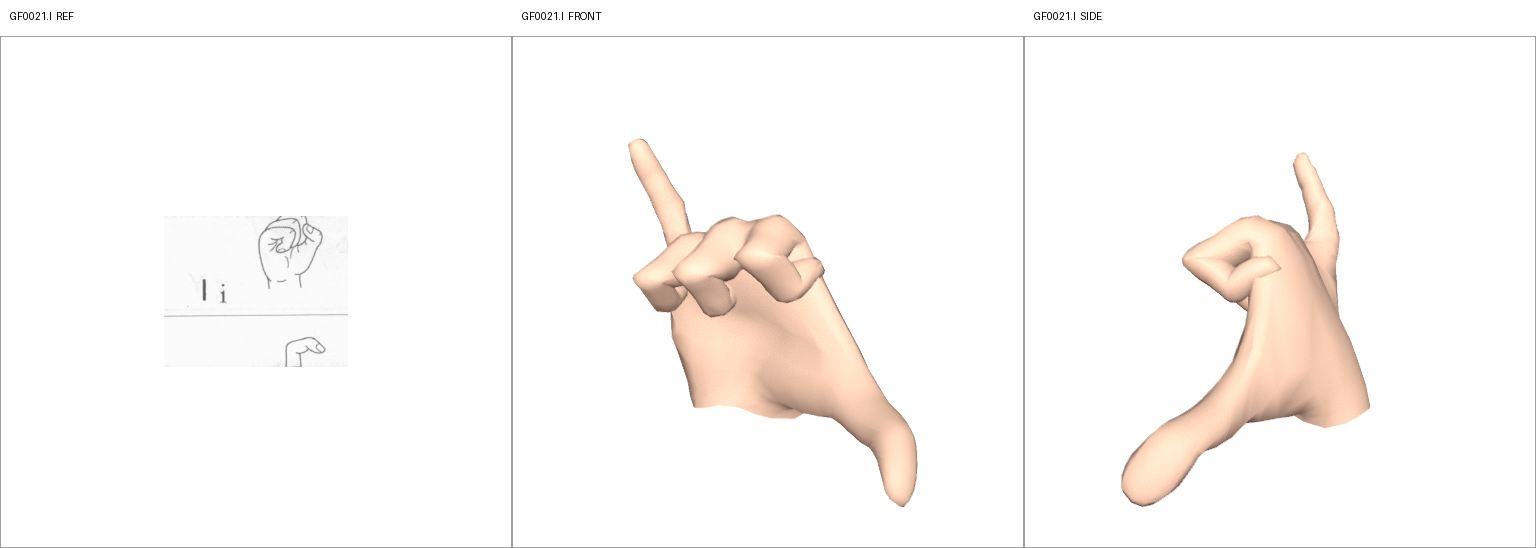
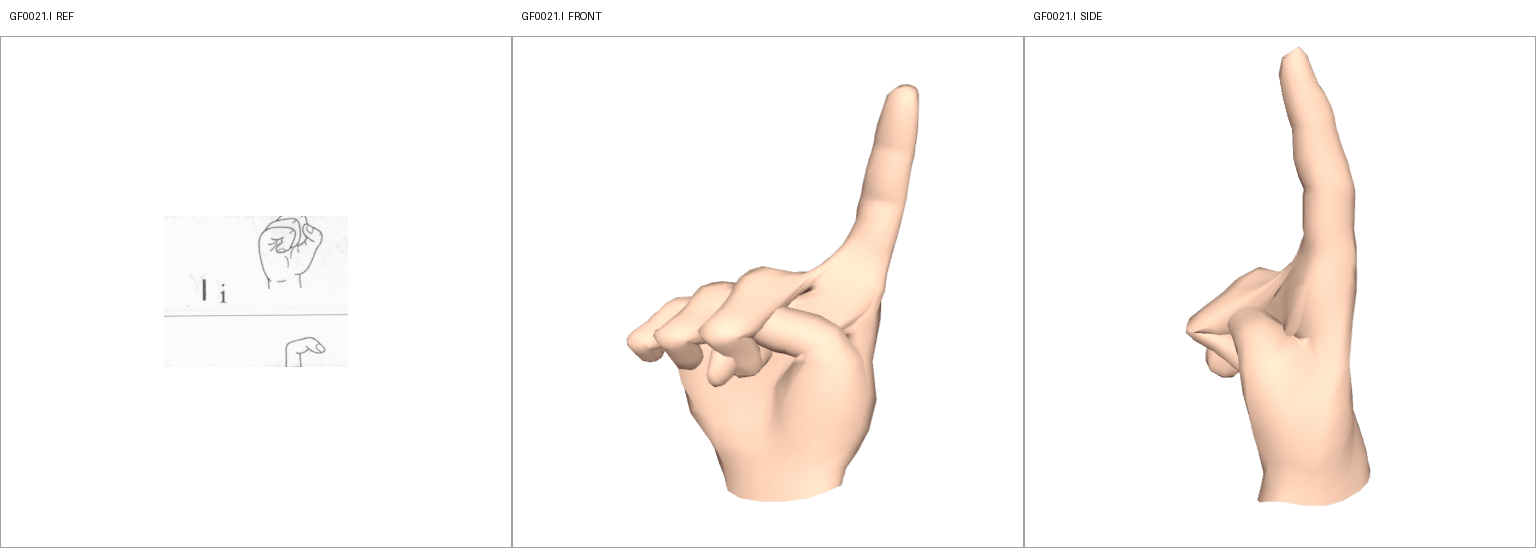
blender: 32 字母新姿态表定稿（J 勾手/NG 小指横伸/Y 拇指斜上/拇指 tuck 对齐判定器），正侧渲染与 REF 三联图全量重出

Changed region(s): [[0.4062, 0.1551, 0.625, 0.9307], [0.7188, 0.0931, 0.9062, 0.9307]]

diff --git a/blender/build_godot_hand_poc.py b/blender/build_godot_hand_poc.py
@@ -5,7 +5,7 @@ Output: blender/vendor/godot-xr-hands/poc/*.png + bones.json
 
 Usage:
   blender -b --python build_godot_hand_poc.py -- inspect   # dump bones + 6 orientation views
-  blender -b --python build_godot_hand_poc.py -- letters   # render A/B posed, palm to camera
+  blender -b --python build_godot_hand_poc.py -- letters   # 渲染全部 32 字母正/侧面（姿态表 2026-10-01 按官方原文全量重排）
 """
 
 import bpy
@@ -181,44 +181,128 @@ def cmd_inspect(arm, mesh):
 
 FIST = (30, 95, 100, 60)   # 弯曲抵掌心
 EXT = (5, 0, 0, 0)         # 伸直（rest 微曲）
+BENT90 = (10, 90, 5, 5)    # 并拢微曲与手掌成 90 度角（S/SH 类：近节折 90，关节保持直）
+HOOK = (5, 10, 90, 20)     # J：PIP 折 90°，中节指背向上，远节随弯
+PINCH = (10, 60, 70, 45)   # 拇食指搭圈时的食指（E/F/P）
+TOUCH = (10, 75, 70, 45)   # 指尖相抵类（T 的中/无名指）
+C_CURVE = (20, 55, 55, 35) # C：五指弯曲成 C
 
+# 2026-10-01 全量重排：按 letters.json 官方原文转写逐字母摆姿。
+# 四指键：Index/Middle/Ring/Little → (掌骨, 近节, 中节, 远节) 屈曲角。
 LETTERS = {
-    # 原文页2：伸拇指指尖朝上，四指弯曲抵掌心，手背向右（2019 呈现角度调整名单）
-    "A": {f: FIST for f in FINGERS},
-    # 原文页2：四指并拢直立，拇指向掌心弯曲贴掌，掌心向前偏左
-    "B": {f: EXT for f in FINGERS},
-    # 【冲突记录用草稿】OCR 与仓库规则未裁定；按仓库规则：食中二指伸直并拢
-    "U": {"Index": EXT, "Middle": EXT, "Ring": FIST, "Little": FIST},
-    # 原文页5：食中指直立分开成 V，拇无名小弯曲，拇指搭无名指远节
-    "V": {"Index": EXT, "Middle": EXT, "Ring": FIST, "Little": FIST},
-    # 原文页5：食中无名直立分开成 W，拇小指弯曲，拇指搭小指远节
-    "W": {"Index": EXT, "Middle": EXT, "Ring": EXT, "Little": FIST},
-    # 原文页3：拇食指张开、食指朝上，中无名小弯曲抵掌心；原文无「直角」，张开角待人工对图
+    "A": {f: FIST for f in FINGERS},                                  # 握拳伸拇指
+    "B": {f: EXT for f in FINGERS},                                   # 四指并拢直立
+    "C": {f: C_CURVE for f in FINGERS},                               # 五指弯曲成 C
+    "D": {f: FIST for f in FINGERS},                                  # 握拳，拇指搭中指中节
+    "E": {"Index": PINCH, "Middle": EXT, "Ring": EXT, "Little": EXT}, # 拇食指搭圈，三指横伸
+    "F": {"Index": PINCH, "Middle": EXT, "Ring": FIST, "Little": FIST},
+    "G": {"Index": EXT, "Middle": FIST, "Ring": FIST, "Little": FIST},
+    "H": {"Index": EXT, "Middle": EXT, "Ring": FIST, "Little": FIST},
+    "I": {"Index": EXT, "Middle": FIST, "Ring": FIST, "Little": FIST},# 食指直立（按原文文字）
+    "J": {"Index": HOOK, "Middle": FIST, "Ring": FIST, "Little": FIST},
+    "K": {"Index": EXT, "Middle": EXT, "Ring": FIST, "Little": FIST}, # 食指直立、中指横伸（见 SPLAY）
     "L": {"Index": EXT, "Middle": FIST, "Ring": FIST, "Little": FIST},
-    # 原文页5：伸拇、小指，食中无名弯曲
-    "Y": {"Little": EXT, "Index": FIST, "Middle": FIST, "Ring": FIST},
-    # 【待人工对图】OCR「食指直立」与仓库「小指伸直」冲突；按仓库规则渲染
-    "I": {"Little": EXT, "Index": FIST, "Middle": FIST, "Ring": FIST},
+    "M": {f: FIST for f in FINGERS},
+    "N": {f: FIST for f in FINGERS},
+    "O": {f: C_CURVE for f in FINGERS},                               # 拇食中指尖相抵成 O
+    "P": {"Index": PINCH, "Middle": EXT, "Ring": EXT, "Little": EXT}, # 同 E 手型，指尖朝下
+    "Q": {"Index": TOUCH, "Middle": TOUCH, "Ring": FIST, "Little": FIST}, # 拇食中指尖相捏
+    "R": {"Index": EXT, "Middle": FIST, "Ring": FIST, "Little": FIST},# 食指朝左、拇指朝上
+    "S": {f: BENT90 for f in FINGERS},                                # 四指并拢微曲 90 度
+    "T": {"Index": EXT, "Middle": TOUCH, "Ring": TOUCH, "Little": EXT},
+    "U": {f: EXT for f in FINGERS},                                   # 四指并拢直立（2026-10-01 四指裁定）
+    "V": {"Index": EXT, "Middle": EXT, "Ring": FIST, "Little": FIST},
+    "W": {"Index": EXT, "Middle": EXT, "Ring": EXT, "Little": FIST},
+    "X": {"Index": EXT, "Middle": EXT, "Ring": FIST, "Little": FIST}, # 食中直立交叉（见 SPLAY）
+    "Y": {"Index": FIST, "Middle": FIST, "Ring": FIST, "Little": EXT},
+    "Z": {"Index": EXT, "Middle": FIST, "Ring": FIST, "Little": EXT}, # 食小指横伸
+    "ZH": {"Index": EXT, "Middle": EXT, "Ring": FIST, "Little": EXT}, # 食中小指横伸，食中并拢
+    "CH": {f: EXT for f in FINGERS},                                  # 四指并拢横伸成扁コ
+    "SH": {"Index": BENT90, "Middle": BENT90, "Ring": FIST, "Little": FIST},
+    "NG": {"Index": FIST, "Middle": FIST, "Ring": FIST, "Little": EXT}, # 小指横伸
+    "EH": {"Index": PINCH, "Middle": EXT, "Ring": EXT, "Little": EXT},  # 用 E 的指式
+    "UE": {f: EXT for f in FINGERS},                                  # 用 U 的指式
 }
+
 # 绕掌法线（+X）的开合角：正角 = 向拇指侧（+Z）
-SPLAY = {"A": {}, "B": {"Index": -4, "Middle": -1.5, "Ring": 1.5, "Little": 4},
-         "U": {"Index": -6, "Middle": 5},
-         "V": {"Index": 12, "Middle": -12},
-         "W": {"Index": 18, "Ring": -18},
-         "L": {"Index": -2}, "Y": {"Little": -10}, "I": {"Little": -6}}
+TOGETHER4 = {"Index": -6, "Middle": -1.5, "Ring": 1.5, "Little": 6}
+SPLAY = {
+    "A": {}, "B": TOGETHER4, "C": {}, "D": {},
+    "E": {"Middle": -2, "Ring": 2, "Little": 8},       # 三指稍分开
+    "F": {"Index": -2, "Middle": 4},                   # 食中稍分开
+    "G": {"Index": 4},
+    "H": {"Index": -6, "Middle": 6},                   # 食中并拢
+    "I": {"Index": 4},
+    "J": {"Index": 3},
+    "K": {"Index": -6, "Middle": 75},                  # 中指横伸（向拇指侧）
+    "L": {"Index": -2},
+    "M": {"Index": -4, "Middle": -1, "Ring": 2, "Little": 4},
+    "N": {"Index": -3, "Middle": 2},
+    "O": {},
+    "P": {"Middle": -2, "Ring": 2, "Little": 8},
+    "Q": {"Index": -3, "Middle": 3, "Little": -10},
+    "R": {"Index": 4},
+    "S": TOGETHER4,
+    "T": {"Index": 10, "Little": -12},                 # 食、小指直立分开
+    "U": TOGETHER4,
+    "V": {"Index": 12, "Middle": -12},
+    "W": {"Index": 18, "Ring": -18},
+    "X": {"Index": -7, "Middle": 7},                   # 交叉：中指搭在食指上
+    "Y": {"Little": -12},
+    "Z": {"Index": 6, "Little": -8},
+    "ZH": {"Index": -2, "Middle": 2, "Little": -9},    # 食中并拢，小指离开
+    "CH": TOGETHER4,
+    "SH": {"Index": -3, "Middle": 3},
+    "NG": {"Little": 14},
+    "EH": {"Middle": -2, "Ring": 2, "Little": 8},
+    "UE": {"Index": -6, "Middle": -1.5, "Ring": 1.5, "Little": 12},  # ü：小指稍离开
+}
+
 # 拇指 = (摆角@掌法线, meta屈曲@finger_up, prox折叠@掌法线, dist折叠@掌法线)
 # 判定器 thumb 卷曲 = 二维 IP 内角（lm2/3/4，阈值 ≤100°），折叠必须发生在掌面（≈成像面）内
-THUMB = {"A": (-80, -10, 0, 0),       # 竖起，指尖朝上
-         "B": (55, -20, 35, 45),      # 横折过掌面 + 末端回钩
-         "U": (50, -20, 35, 45),
-         "V": (45, -20, 30, 40),      # 搭无名指远节
-         "W": (55, -20, 30, 40),      # 搭小指远节
-         "L": (-75, 0, 0, 0),         # 张开（二维投影需接近直角）
-         "Y": (-55, 0, 0, 0),         # 伸出
-         "I": (50, -20, 35, 45)}
-# 呈现角度：A 手背向右（背面视角）；其余掌心向前偏左（掌心视角 + 绕竖轴偏转）
-VIEW = {"A": "back"}
+TUCK_MID = (-28, -8, -72, -100)  # 搭中指中节指上
+TUCK_RING = (-30, -8, -70, -95)  # 搭无名指远节指上
+TUCK_PALM = (-36, 0, -50, -95)   # 贴近手掌
+TUCK_PINKY = (-35, -8, -65, -95) # 搭小指远节指上（W）
+THUMB = {
+    "A": (-80, -10, 0, 0),     # 竖起，指尖朝上
+    "B": TUCK_PALM,
+    "C": (-15, -8, -45, -40),    # 向上弯曲成 C 的一边
+    "D": TUCK_MID,               # 握拳搭中指中节
+    "E": (-20, -10, -45, -50),   # 与食指搭圈
+    "F": TUCK_RING, "G": TUCK_MID, "H": TUCK_RING,
+    "I": TUCK_MID, "J": TUCK_MID, "K": TUCK_MID,
+    "L": (-75, 0, 0, 0),       # 张开（二维投影需接近直角）
+    "M": (-42, -8, -70, -58), "N": (-42, -8, -70, -58),
+    "O": (-15, -8, -50, -45),    # 向上弯曲参与 O 形
+    "P": (-20, -10, -45, -50),   # 与食指搭圈
+    "Q": (-35, -12, -45, -45),   # 在下与食中指尖相捏
+    "R": (-80, -10, 0, 0),       # 拇指指尖朝上（同 A 的竖拇指）
+    "S": TUCK_PALM, "T": (-40, -8, -65, -55),  # T：与中无名指尖相抵
+    "U": TUCK_PALM,
+    "V": TUCK_RING, "W": TUCK_PINKY, "X": TUCK_RING,
+    "Y": (-5, 0, 0, 0),        # 伸出（向外侧展开、斜向上）
+    "Z": (-40, -8, -45, -45), "ZH": TUCK_RING, "CH": (-30, -8, -20, -20),
+    "SH": TUCK_PALM, "NG": (-40, -8, -45, -45),
+    "EH": (-20, -10, -45, -50), "UE": TUCK_PALM,
+}
+
+# 呈现角度：view ∈ {palm（掌心向前偏左）, back（手背向观者）}；roll = 相机绕视线旋转角（度）。
+# 横伸字母（指尖朝左）用 back + roll；P 指尖朝下用 palm + roll 180。
+ORIENT = {
+    "A": ("back", 0),
+    "E": ("back", 270), "F": ("back", 270), "G": ("back", 270),
+    "P": ("palm", 180),
+    "R": ("back", 270),
+    "Z": ("back", 270), "ZH": ("back", 270), "CH": ("back", 270), "NG": ("back", 270),
+    "EH": ("back", 270),
+}
 PALM_YAW_DEG = 20.0
+
+
+def orient_of(letter):
+    view, roll = ORIENT.get(letter, ("palm", 0))
+    return view, roll
 
 
 def apply_pose(arm, letter, palm_normal, finger_up, axis):
@@ -239,10 +323,19 @@ def apply_pose(arm, letter, palm_normal, finger_up, axis):
 
 
 def front_view_dir(letter, palm_normal, finger_up):
-    if VIEW.get(letter) == "back":
+    view, _roll = orient_of(letter)
+    if view == "back":
         return palm_normal.copy()   # 手背向观者
     yaw = Matrix.Rotation(math.radians(PALM_YAW_DEG), 3, finger_up)
     return (yaw @ -palm_normal).normalized()   # 掌心向前偏左
+
+
+def view_up(letter, view_dir, finger_up):
+    """相机上方向：默认手指朝上；roll 使横伸字母的指尖在画面里朝左/朝下。"""
+    _view, roll = orient_of(letter)
+    if not roll:
+        return finger_up.copy()
+    return (Matrix.Rotation(math.radians(roll), 3, view_dir) @ finger_up).normalized()
 
 
 def reset_pose(arm):
@@ -265,10 +358,12 @@ def cmd_letters(arm, mesh):
         c = (lo + hi) / 2
         dist = (hi - lo).length * 1.35
         across = palm_normal.cross(finger_up).normalized()
-        views = [(f"GF0021.{letter}_front.png", front_view_dir(letter, palm_normal, finger_up)),
-                 (f"GF0021.{letter}_side.png", across)]   # 侧面验证视角，防支点类回归
-        for fname, direction in views:
-            add_camera(c + direction * dist, c, finger_up)
+        front_dir = front_view_dir(letter, palm_normal, finger_up)
+        front_up = view_up(letter, front_dir, finger_up)
+        views = [(f"GF0021.{letter}_front.png", front_dir, front_up),
+                 (f"GF0021.{letter}_side.png", across, finger_up)]   # 侧面验证视角，防支点类回归
+        for fname, direction, up in views:
+            add_camera(c + direction * dist, c, up)
             render(sc, os.path.join(POC, fname))
             bpy.data.objects.remove(sc.camera)
         reset_pose(arm)
@@ -293,20 +388,22 @@ LM_BONES = [
 def cmd_landmarks(arm, mesh):
     """摆姿 → 经渲染相机投影导出 21 点 golden JSON 到 practice/src/pose-goldens/（入库）。
 
-    pose-goldens.test.js 断言 8×8 恒等矩阵：每个 golden 仅通过自身字母。
-    改角度表或改判定规则后：重跑本模式 + node practice/src/pose-goldens.test.js。"""
+    pose-goldens.test.js 断言恒等矩阵：每个 golden 仅通过自身字母（B×U 碰撞除外）。
+    只导出 8 个主路径字母；改角度表或改判定规则后：重跑本模式 + node practice/src/pose-goldens.test.js。"""
     from bpy_extras.object_utils import world_to_camera_view
+    golden_ids = ["A", "B", "I", "L", "U", "V", "W", "Y"]
     sc = setup_render()
     center, palm_normal, finger_up = palm_frame(arm)
     axis = flex_axis()
     outdir = os.path.join(ROOT, "..", "practice", "src", "pose-goldens")
     os.makedirs(outdir, exist_ok=True)
-    for letter in LETTERS:
+    for letter in golden_ids:
         apply_pose(arm, letter, palm_normal, finger_up, axis)
         lo, hi = world_bbox(mesh)
         c = (lo + hi) / 2
         dist = (hi - lo).length * 1.35
-        cam = add_camera(c + front_view_dir(letter, palm_normal, finger_up) * dist, c, finger_up)
+        front_dir = front_view_dir(letter, palm_normal, finger_up)
+        cam = add_camera(c + front_dir * dist, c, view_up(letter, front_dir, finger_up))
         pts = []
         for bone, end in LM_BONES:
             pb = arm.pose.bones[bone]

diff --git a/tools/standard-figures/make_triptychs.py b/tools/standard-figures/make_triptychs.py
@@ -23,8 +23,12 @@ OUT = ROOT / "docs" / "standards" / "review"
 CELL = 512
 LABEL_H = 36
 
-# 当前 PoC 角度表覆盖的字母；扩充角度表后在此追加
-LETTERS = ["A", "B", "I", "L", "U", "V", "W", "Y"]
+# 全部 32 个字母（2026-10-01 姿态表全量重排后）
+LETTERS = [
+    "A", "B", "C", "D", "E", "F", "G", "H", "I", "J", "K", "L", "M",
+    "N", "O", "P", "Q", "R", "S", "T", "U", "V", "W", "X", "Y", "Z",
+    "ZH", "CH", "SH", "NG", "EH", "UE",
+]
 
 
 def fit(img, size):
